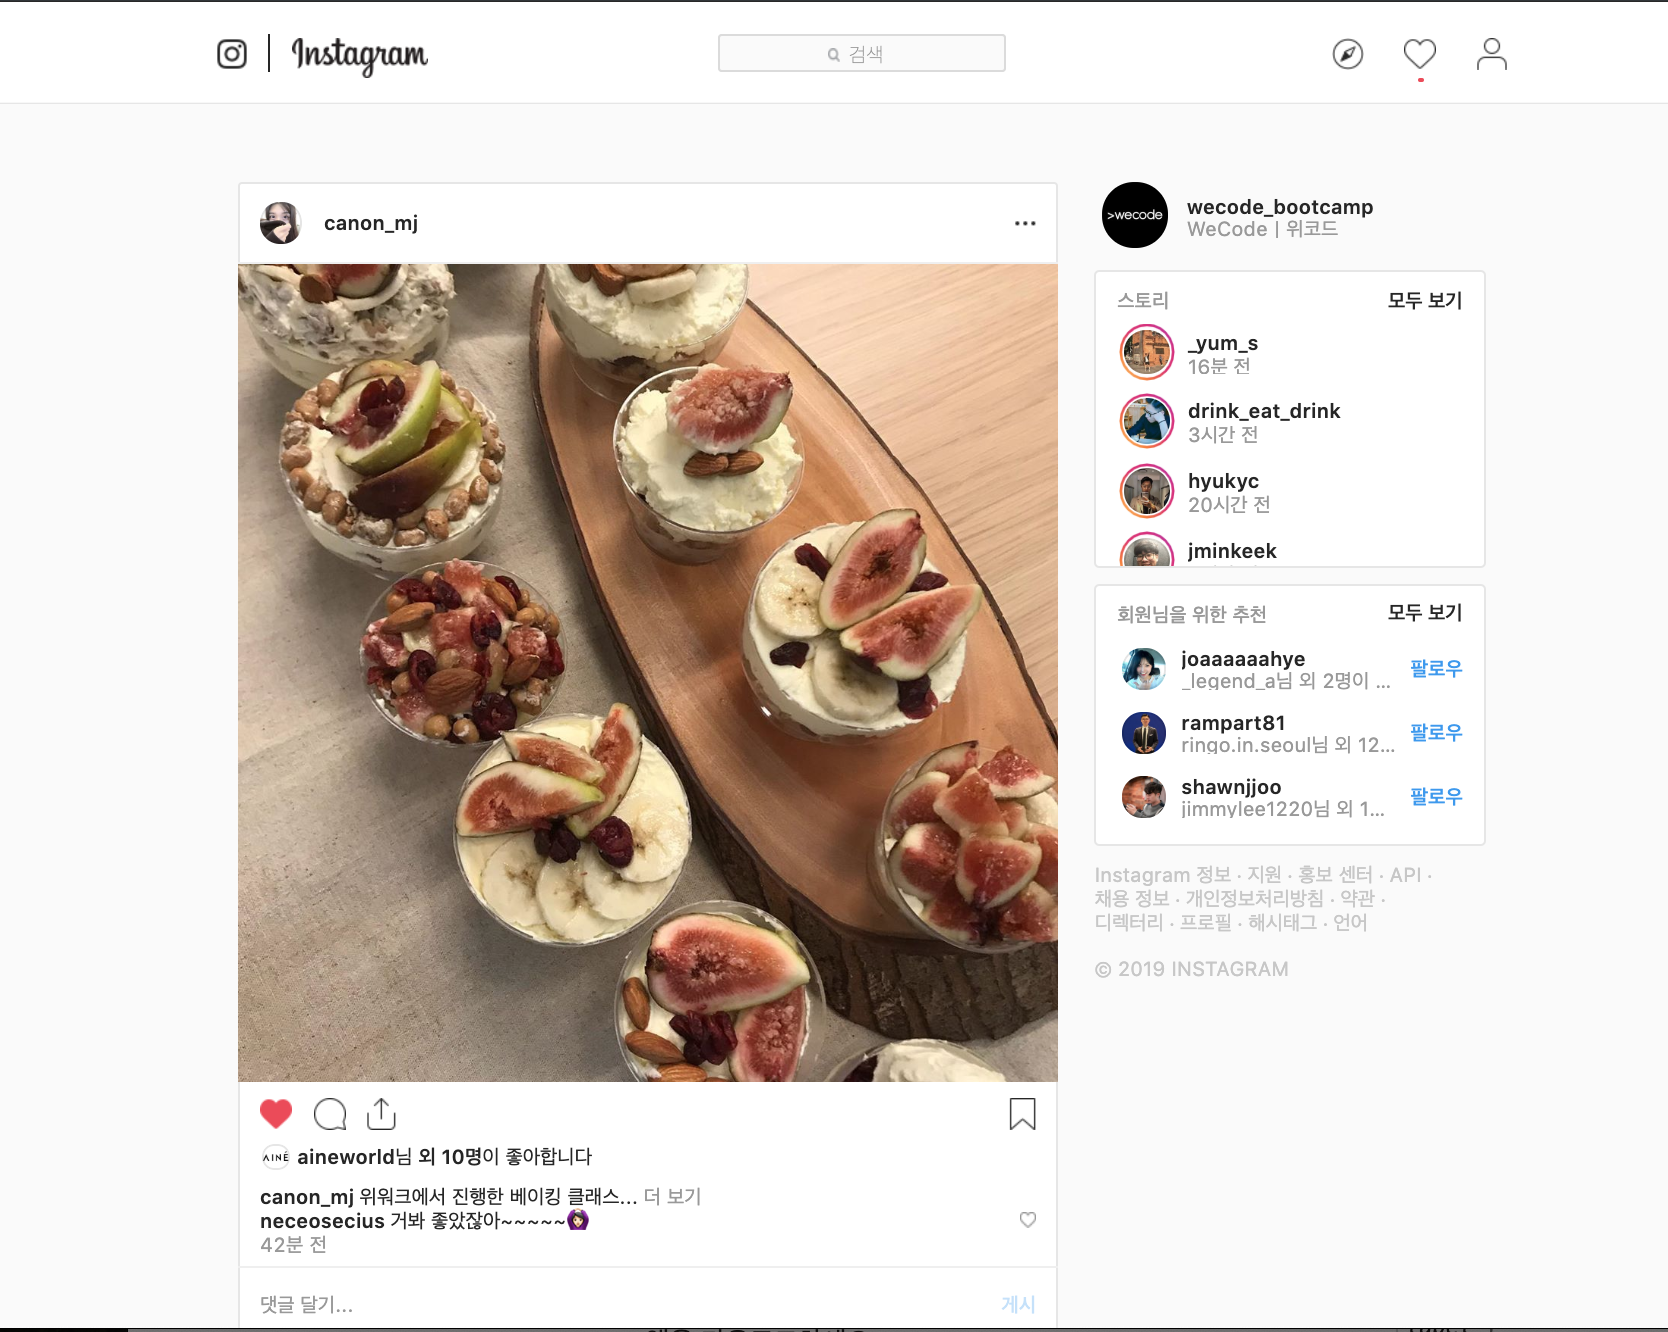
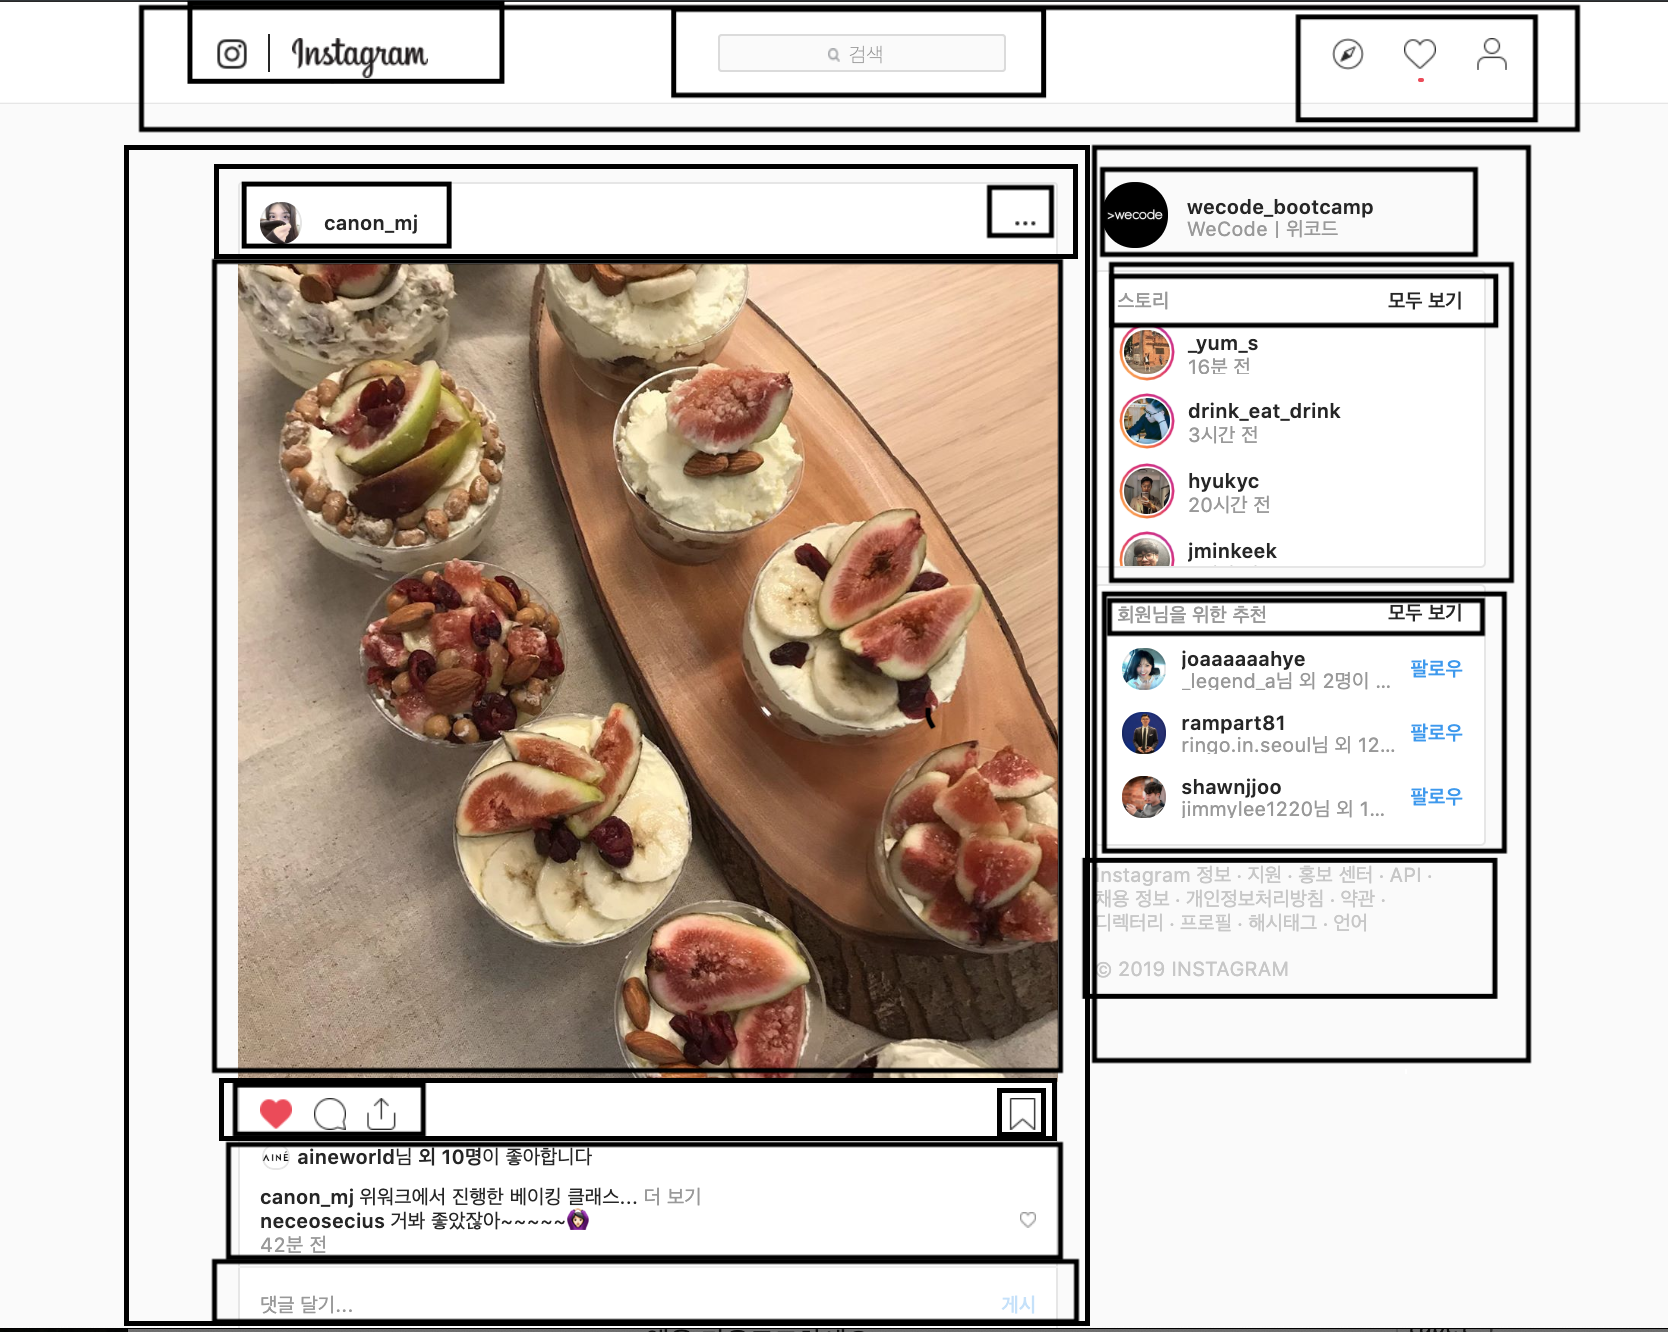
ADD: main페이지 레이아웃

Changed region(s): [[0.0624, 0.0, 0.9664, 1.0]]

diff --git a/students/39th/kangjimin/main.html b/students/39th/kangjimin/main.html
@@ -1,5 +1,6 @@
 <!DOCTYPE html>
 <html lang="en">
+
 <head>
     <meta charset="UTF-8">
     <meta http-equiv="X-UA-Compatible" content="IE=edge">
@@ -10,32 +11,138 @@
     <link rel="stylesheet" href="style/main.css" />
     <link rel="stylesheet" href="style/reset.css" />
     <script defer src="js/main.js"></script>
-    <link rel="stylesheet" href="https://cdnjs.cloudflare.com/ajax/libs/font-awesome/6.2.0/css/all.min.css" integrity="sha512-xh6O/CkQoPOWDdYTDqeRdPCVd1SpvCA9XXcUnZS2FmJNp1coAFzvtCN9BmamE+4aHK8yyUHUSCcJHgXloTyT2A==" crossorigin="anonymous" referrerpolicy="no-referrer" />
+    <link rel="stylesheet" href="https://cdnjs.cloudflare.com/ajax/libs/font-awesome/6.2.0/css/all.min.css"
+        integrity="sha512-xh6O/CkQoPOWDdYTDqeRdPCVd1SpvCA9XXcUnZS2FmJNp1coAFzvtCN9BmamE+4aHK8yyUHUSCcJHgXloTyT2A=="
+        crossorigin="anonymous" referrerpolicy="no-referrer" />
 </head>
-<body>
-    <nav>
-        <ul>
-            <li><a href = ""><i class="fa-brands fa-instagram" style="font-size: 30px;"></i></a></li>
-            <li><a href = "" class="font">westagram</a></li>
-            <input type="text" placeholder="검색"/>
-            <i class="fa-solid fa-magnifying-glass" style="font-size: 30; color: gray;"></i>
-            <li><a href = ""><img alt="explore" src="https://s3.ap-northeast-2.amazonaws.com/cdn.wecode.co.kr/bearu/explore.png" /></a></li>
-            <li><a href = ""><img alt="heart" src="https://s3.ap-northeast-2.amazonaws.com/cdn.wecode.co.kr/bearu/heart.png" /></a></li>
-            <li><a href = ""><img alt="mypage" src="https://s3.ap-northeast-2.amazonaws.com/cdn.wecode.co.kr/bearu/profile.png" /></a></li>
-        </ul>
-    </nav>
-    <main>
-        <div class="box1 feeds">
-            <article>
-                <p><strong>mingming</strong></p>
-                <img src="img/cat1.jpg" style="width: 500px;"/>
-                <p><strong>jm</strong>님 외 10명이 좋아합니다</p>
-                <p><strong>mingming</strong> 고양이 사진으로 힐링</p>
-            </article>
-        </div>
-        <div class="box2 mainRight">
 
+<body>
+    <header>
+        <nav>
+            <div class="navWrap">
+                <div class="logo">
+                    <a href=""><i class="fa-brands fa-instagram" style="font-size: 30px; color: black;"></i></a>
+                    <a href="" class="font">westagram</a>
+                </div>
+                <div class="search">
+                    <i class="fa-solid fa-magnifying-glass" style="font-size: 30; color: gray;"></i>
+                    <input type="text" placeholder="검색" />
+                </div>
+                <div class="icon">
+                    <a href=""> <img class="navIcon" alt="explore"
+                                src="https://s3.ap-northeast-2.amazonaws.com/cdn.wecode.co.kr/bearu/explore.png" /></a>
+                    <a href=""> <img class="navIcon" alt="heart"
+                                src="https://s3.ap-northeast-2.amazonaws.com/cdn.wecode.co.kr/bearu/heart.png" /></a>
+                    <a href=""> <img class="navIcon" alt="mypage"
+                                src="https://s3.ap-northeast-2.amazonaws.com/cdn.wecode.co.kr/bearu/profile.png" /></a>
+                </div>
+            </div>
+        </nav>
+    </header>
+
+    <main>
+        <div class="left">
+            <div class="feedTop">
+                <div class="feedId">
+                    <p><img class="imgCircle1" src="img/cat2.jpg" /><strong> mingming</strong></p>
+                </div>
+                <div class="feedMore">
+                    <i class="fa-solid fa-ellipsis"></i>
+                </div>
+            </div>
+
+            <div class="feedImg">
+                <img src="img/cat1.jpg" />
+            </div>
+
+            <div class="feedIcon">
+                <div class="leftFeedIcon">
+                    <i class="fa-solid fa-heart"></i>
+                    <i class="fa-solid fa-comment"></i>
+                    <i class="fa-solid fa-arrow-up-from-bracket"></i>
+                </div>
+                <div class="rightFeedIcon">
+                    <i class="fa-solid fa-bookmark"></i>
+                </div>
+            </div>
+
+            <div>
+                <img class="imgCircle" src="img/cat3.jpg" />
+                <p><strong>jm</strong>님 외 10명이 좋아합니다</p>
+            </div>
+            <div>
+                <p><strong>mingming</strong> 고양이 사진으로 힐링</p>
+                <p><strong>catttt</strong> 거봐 좋았잖아~~</p>
+                <p>42분 전</p>
+            </div>
+
+            <div class="comment">
+                <input class="commentInput" type="text" placeholder="댓글 달기..." />
+                <button class="commentBtn" disabled>게시</button>
+            </div>
+        </div>
+
+
+        <div class="right">
+            <div class="id">
+                <img class="imgCircle" src="img/cat3.jpg" />
+                <span>wecode</span>
+                <span>위코드</span>
+            </div>
+
+            <div class="story">
+                <span>스토리</span>
+                <span>모두 보기</span>
+                <div>
+                    <img class="imgCircle" src="img/cat4.jpg" />
+                    <span>wecode</span>
+                    <p>16분 전</p>
+                </div>
+                <div>
+                    <img class="imgCircle" src="img/cat5.jpg" />
+                    <span>wecode</span>
+                    <p>3시간 전</p>
+                </div>
+                <div>
+                    <img class="imgCircle" src="img/cat6.jpg" />
+                    <span>wecode</span>
+                    <p>20시간 전</p>
+                </div>
+                <div>
+                    <img class="imgCircle" src="img/cat7.jpg" />
+                    <span>wecode</span>
+                </div>
+            </div>
+
+            <div class="recommand">
+                <span>회원님을 위한 추천</span>
+                <span>모두 보기</span>
+                <div class="followImg">
+                    <img class="imgCircle" src="img/cat8.jpg" />
+                    <p>idddd</p>
+                    <p>회원님을 팔로우합니다</p>
+                    <p>팔로우</p>
+                </div>
+                <div class="followImg">
+                    <img class="imgCircle" src="img/cat9.jpg" />
+                    <p>idddd</p>
+                    <p>회원님을 팔로우합니다</p>
+                    <p>팔로우</p>
+                </div>
+                <div class="followImg">
+                    <img class="imgCircle" src="img/dog.jpg" />
+                    <p>idddd</p>
+                    <p>회원님을 팔로우합니다</p>
+                    <p>팔로우</p>
+                </div>
+            </div>
+            <div class="copyright">
+                Westagram 정보 · 지원 · 홍보 센터 · API · 채용 정보 · 개인정보처리방침 · 약관 · 디렉터리 · 프로필 · 해시태그 · 언어
+                <br><br>
+                © 2019 WESTAGRAM
+            </div>
         </div>
     </main>
 </body>
+
 </html>

diff --git a/students/39th/kangjimin/style/main.css b/students/39th/kangjimin/style/main.css
@@ -1,38 +1,143 @@
+nav {
+    position: fixed;
+    background-color: white;
+}
+
+header {
+    height: 70px;
+    text-align: center;
+    position: relative;
+    float: top;
+    padding: 5px;
+}
+
+.navWrap {
+    display: flex;
+    flex-direction: row;
+    justify-content: space-between;
+    line-height: 70px;
+    width: 1000px;
+}
+
+.navIcon {
+    display: inline;
+    width: 25px;
+    margin: 5px;
+    margin-top: 20px;
+}
+
 .font {
     font-family: "Lobster";
     font-size: 30px;
     margin: 30px;
     border-left: 2px solid black;
     padding-left: 20px;
+    text-decoration: none;
+    color: black;
 }
 
-li {
-    display: inline-block;
-}
-
-input {
+.search input {
     text-align: center;
+    width: 200px;
+    height: 30px;
+    border: 1px solid rgb(205, 205, 205);
+    background-color: rgb(247, 247, 247);
+    border-radius: 5px;
 }
 
-img {
+main {
+    background-color: rgb(247, 247, 247);
+    display: flex;
+    justify-content: space-evenly;
+}
+
+
+.left {
+    width: 500px;
+    border: 1px solid rgb(205, 205, 205);
+    margin: 10px;
+}
+
+strong {
+    font-weight: bold;
+}
+
+.feedTop {
+    width: 600px;
+    height: 50px;
+    display: flex;
+    transform: translateY(35%);
+}
+
+.imgCircle1 {
+    width: 30px;
+    position: absolute;
+    height: 30px;
+    top: 50%;
+    left: 10px;
+    object-fit: cover;
+    border-radius: 50%;
+    transform: translateY(-110%);
+}
+
+.feedImg {
+    position: relative;
+    width: 500px;
+    height: 500px;
+}
+
+.feedImg img {
+    position: absolute;
     width: 100%;
+    height: 100%;
+    object-fit: cover;
 }
 
-.box1, .box2{
-    border: 2px solid rgb(214, 214, 214);
-    padding: 10px;
+.feedIcon {
+    display: flex;
+    justify-content: space-between;
+    margin: 10px;
 }
 
-.box1 {
-    float: left;
-    width: 60%;
+.comment {
+    background-color: white;
 }
 
-.box2 {
-    float: right;
-    width: 30%;
+.comment input {
+    width: 450px;
+    height: 30px;
+    border: none;
 }
 
-p {
-    font-size: 15px;
+.comment button {
+    border: none;
+    color: rgb(111, 188, 255);
+    background-color: white;
+}
+
+.right {
+    width: 300px;
+    margin: 10px;
+}
+
+.story {
+    border: 1px solid rgb(205, 205, 205);
+    margin: 5px;
+}
+
+.recommand {
+    border: 1px solid rgb(205, 205, 205);
+    margin: 5px;
+}
+
+.imgCircle {
+    width: 30px;
+    height: 30px;
+    object-fit: cover;
+    border-radius: 50%;
+}
+
+.copyright {
+    color: gray;
+    font-size: 13px;
 }

diff --git a/students/39th/kangjimin/js/main.js b/students/39th/kangjimin/js/main.js
@@ -1,0 +1,2 @@
+// 댓글 입력 후 엔터키 or 게시 버튼 클릭 -> 댓글 추가
+// 함수 로직 같은 경우 함수를 분리해서 코드 재활용
